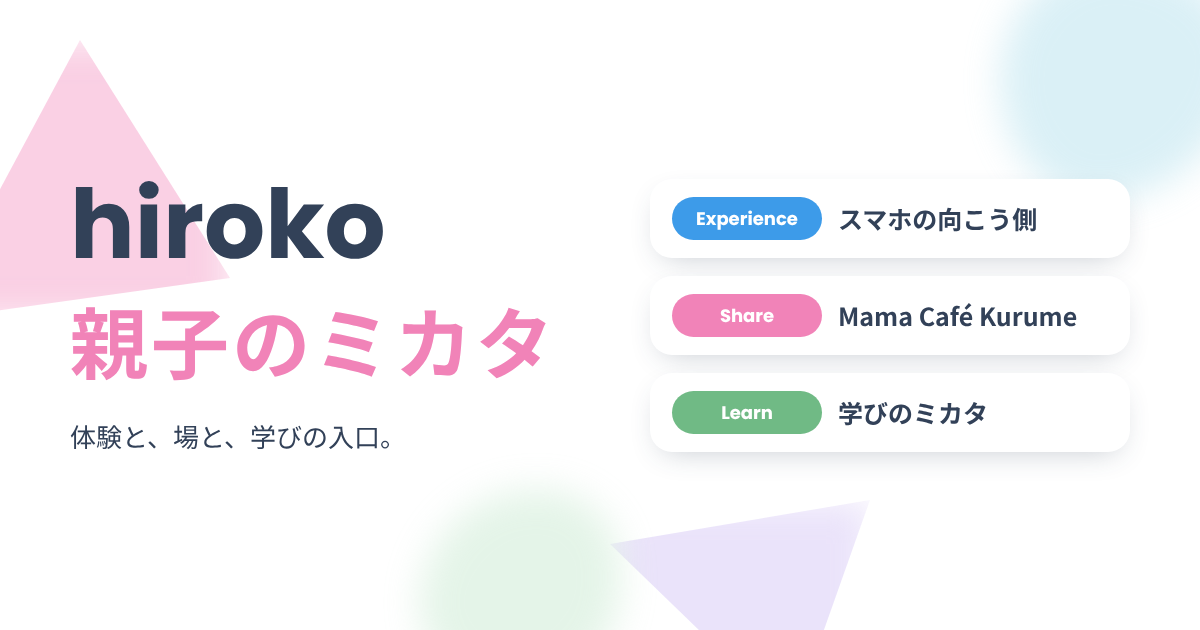
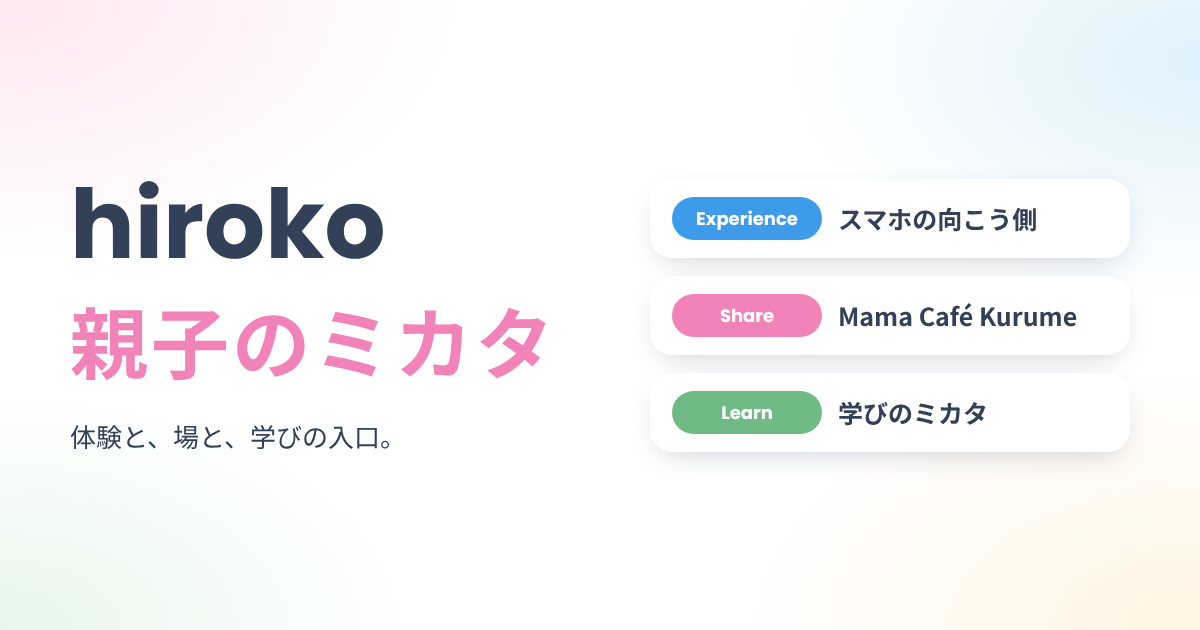
背景の図形を、やわらかいグラデーションに変更
Claude-Session: https://claude.ai/code/session_01G5AkZAPxoiEAfqA7fJKhoJ

diff --git a/index.html b/index.html
@@ -33,12 +33,12 @@ html{-webkit-text-size-adjust:100%}
 body{margin:0;background:var(--bg);color:var(--ink);font-family:var(--f-body);font-size:17px;line-height:1.85;overflow-x:hidden;
   padding-left:max(16px,env(safe-area-inset-left,0px));padding-right:max(16px,env(safe-area-inset-right,0px));
   padding-top:env(safe-area-inset-top,0px);padding-bottom:env(safe-area-inset-bottom,0px)}
-.blobs{position:fixed;inset:0;pointer-events:none;z-index:0;overflow:hidden}
-.blobs i{position:absolute;display:block;filter:blur(14px);opacity:.38}
-.blobs .b1{width:220px;height:200px;left:-60px;top:90px;background:var(--pink);clip-path:polygon(50% 0,100% 85%,0 100%)}
-.blobs .b2{width:180px;height:180px;right:-50px;top:30px;background:#9fd8e8;border-radius:46% 54% 60% 40%/50% 40% 60% 50%}
-.blobs .b3{width:200px;height:170px;right:-40px;top:58%;background:#c9b6f2;clip-path:polygon(0 20%,100% 0,70% 100%)}
-.blobs .b4{width:160px;height:160px;left:-50px;bottom:40px;background:#b9e3c3;border-radius:60% 40% 55% 45%/45% 55% 45% 55%}
+.blobs{position:fixed;inset:0;pointer-events:none;z-index:0;overflow:hidden;
+  background:
+    radial-gradient(60% 40% at 0% 0%, rgba(255,214,231,.55), transparent 70%),
+    radial-gradient(55% 35% at 100% 18%, rgba(205,234,247,.6), transparent 70%),
+    radial-gradient(60% 40% at 100% 100%, rgba(255,236,204,.55), transparent 70%),
+    radial-gradient(55% 35% at 0% 85%, rgba(214,240,222,.55), transparent 70%)}
 main{position:relative;z-index:1;max-width:540px;margin:0 auto;padding-block:56px 64px;display:flex;flex-direction:column;gap:32px}
 header{display:flex;flex-direction:column;gap:14px}
 h1{margin:0;line-height:1.1;display:flex;flex-direction:column;gap:6px}
@@ -66,7 +66,7 @@ footer{text-align:center;font-family:var(--f-latin);font-size:13px;color:var(--m
 </style>
 </head>
 <body>
-<div class="blobs" aria-hidden="true"><i class="b1"></i><i class="b2"></i><i class="b3"></i><i class="b4"></i></div>
+<div class="blobs" aria-hidden="true"></div>
 <main>
   <header>
     <h1><span class="en">hiroko</span><span class="bar">｜</span><span class="nm">親子のミカタ</span></h1>
